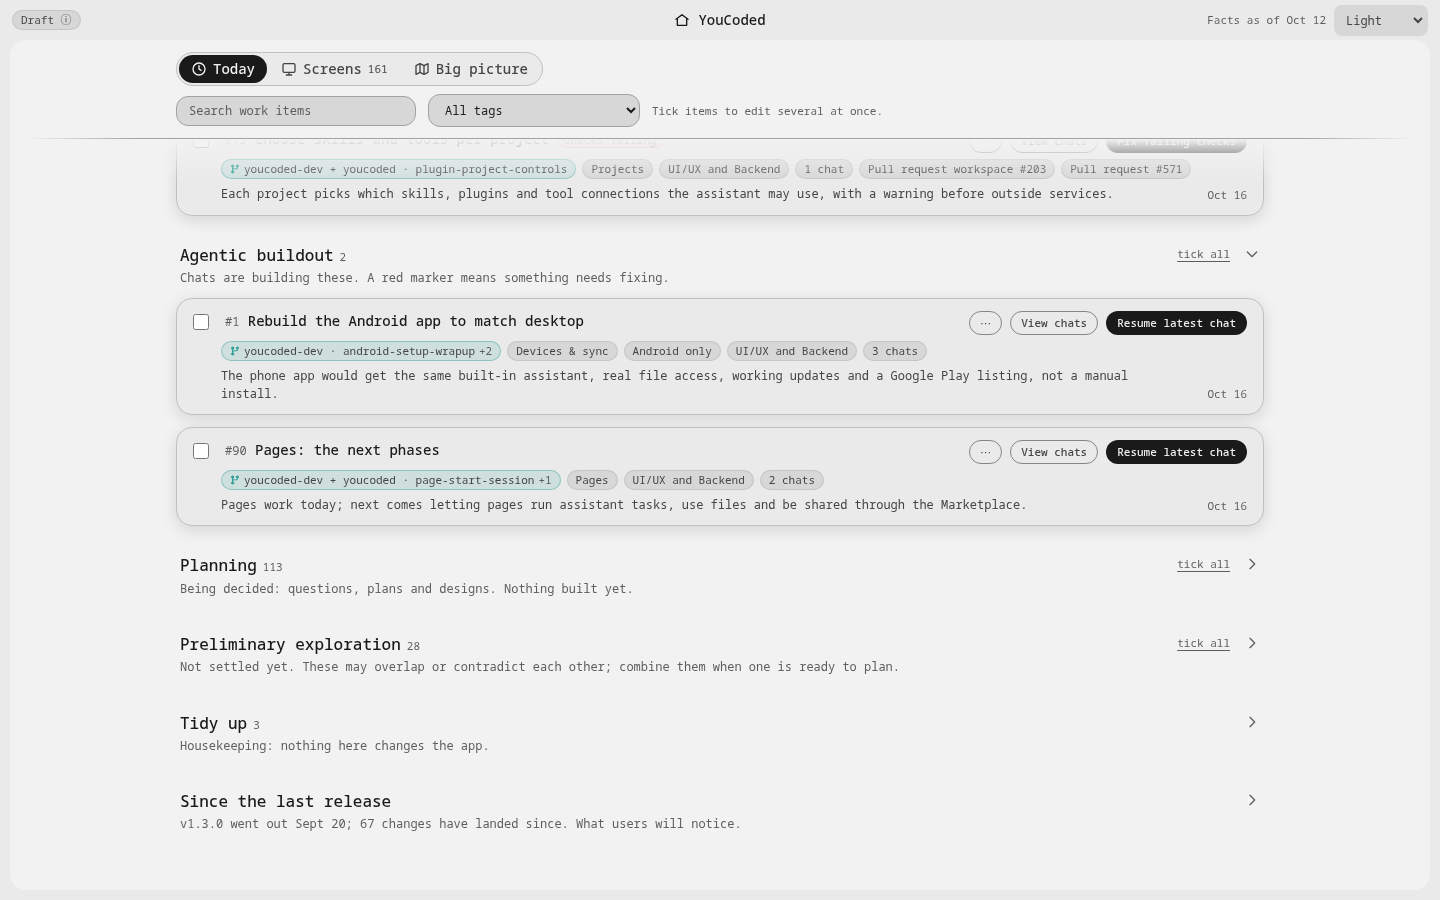
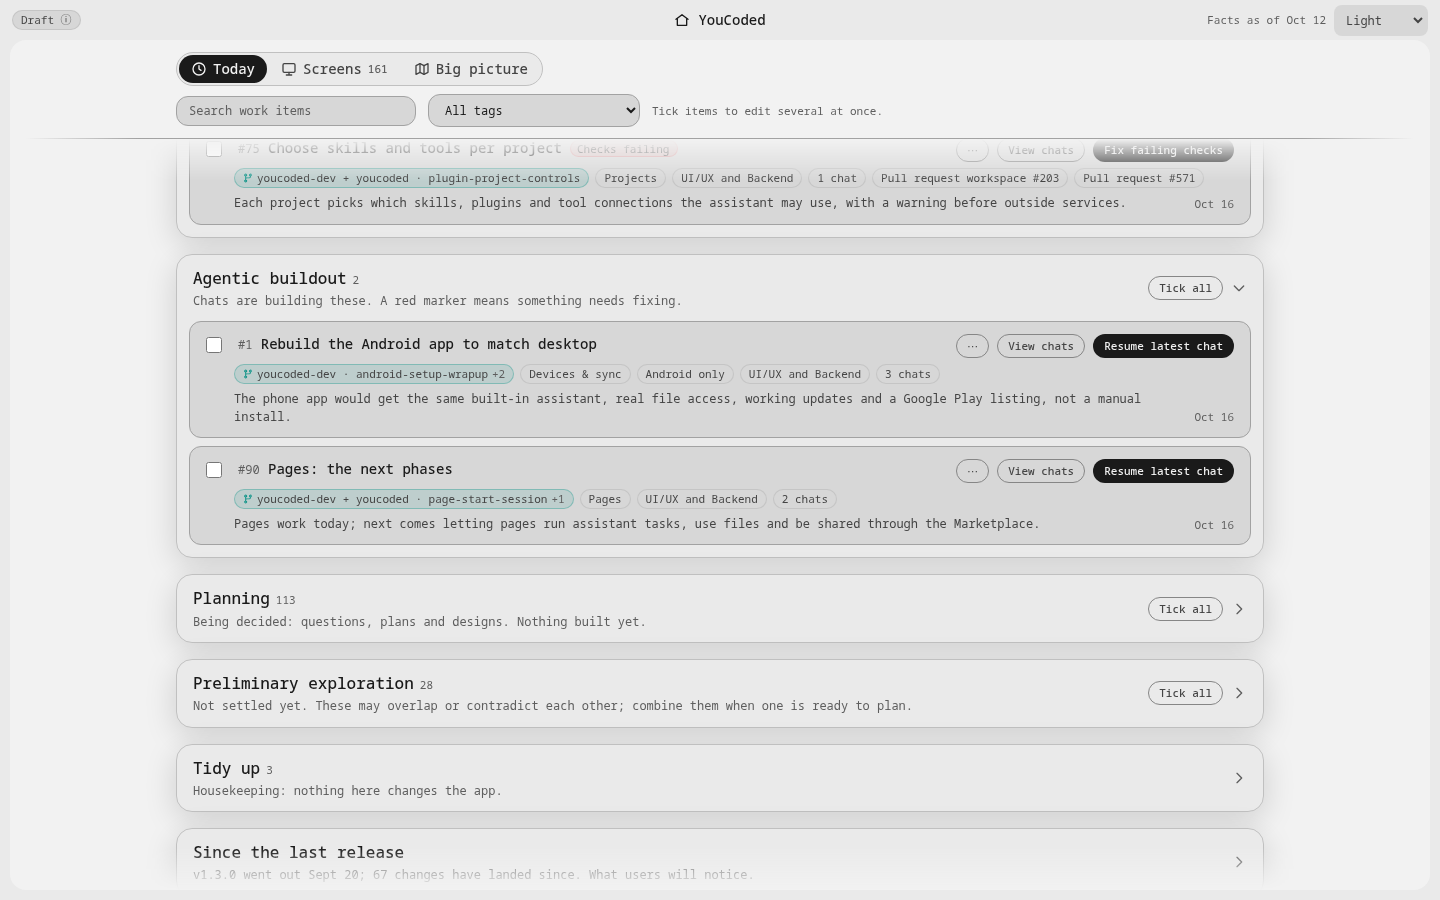
management page: sections are cards that open into bigger cards; no clickable bare text
Destin: 'i hate clickable elements that are bare text. the sections should be
cards, that expand into bigger cards that contain the sub-cards'. Each section
is a raised box whose header folds it (the whole box lights on hover); open, it
holds the item cards in the nested look. 'Tick all' is an outlined button. Item
names are plain text; the whole item card opens its details. The popup's main
button now matches the card's, and its 'branch when work starts' line shows
only for items with no branch yet.

Changed region(s): [[0.125, 0.1556, 0.875, 0.9644]]

diff --git a/docs/active/design/2026-10-12-management-surface/mockup.html b/docs/active/design/2026-10-12-management-surface/mockup.html
@@ -480,30 +480,33 @@ button.dimg{cursor:zoom-in;font:inherit} button.dimg.full{cursor:zoom-out} butto
 @media (hover:hover){.mitem:hover{background:var(--inset)}} .mitem:focus-visible{outline:2px solid var(--accent)}
 @media (max-width:760px){.ctop{flex-direction:column}.crow .acts{width:100%;justify-content:flex-end}}
 
-/* collapsible groups: the guide's Large heading row (heading + description left, tools right) as the fold's own header */
-.lgroup{margin:0 0 24px} .lgroup > summary{list-style:none} .lgroup > summary::-webkit-details-marker{display:none}
-.lghead{display:flex;align-items:flex-start;gap:12px;padding:4px 4px 8px;cursor:pointer;border-radius:var(--radius-lg)}
+/* sections are cards (Destin, 2026-10-16: "the sections should be cards, that expand into bigger cards that contain
+   the sub-cards"): a raised first-level box whose header row folds it (guide: a folded box opens inside itself, and
+   pointing at it lights the whole box); the item cards inside take the nested look (guide: Card levels) */
+.lgroup{margin:0 0 16px;background:var(--panel);border:1px solid var(--edge);border-radius:var(--radius-xl);box-shadow:var(--layer-shadow);transition:background-color 120ms steps(4)}
+.lgroup > summary{list-style:none} .lgroup > summary::-webkit-details-marker{display:none}
+.lghead{display:flex;align-items:center;gap:12px;padding:12px 16px;cursor:pointer;border-radius:var(--radius-xl)}
+@media (hover:hover){.lgroup:not([open]):has(> summary:hover){background:var(--inset)} .lgroup[open] > .lghead:hover{background:color-mix(in srgb,var(--inset) 60%,transparent)}}
 .lghead .gtext{flex:1;min-width:0;display:flex;flex-direction:column}
 .lghead .gh{font-size:16px;font-weight:500;color:var(--fg)} .lghead .gh .cnt{margin-left:6px}
 .lghead .gdesc{font-size:12px;color:var(--fg-muted);margin-top:2px}
-.lgtools{display:flex;align-items:center;gap:8px;flex:none;padding-top:2px}
+.lgtools{display:flex;align-items:center;gap:8px;flex:none}
 .lgroup[open] > .lghead .chev{transform:rotate(90deg)}
-@media (hover:hover){.lghead:hover .gh{text-decoration:underline;text-underline-offset:3px;text-decoration-color:var(--edge-strong)}}
 .lghead:focus-visible{outline:2px solid var(--accent);outline-offset:2px}
-.lgbody{padding-top:4px}
+.lgbody{padding:0 12px 12px}
+.lgroup .crow{background:var(--inset);border:1px solid var(--edge-card);border-radius:var(--radius-lg);box-shadow:none;margin-bottom:8px}
+.lgroup .crow:last-child{margin-bottom:0}
+/* an item card opens its details when clicked anywhere that is not one of its own controls */
+.lrow{cursor:pointer;transition:background-color 120ms steps(4)}
+@media (hover:hover){.lgroup .lrow:hover{background:color-mix(in srgb,var(--inset) 88%,var(--fg))}}
 /* live Today (live_today.py): the approved rows plus a tick box, and the bulk bar */
 .ltools{display:flex;align-items:center;gap:8px;flex-wrap:wrap}
 .field{font:inherit;font-size:12px;line-height:16px;padding:6px 12px;border-radius:var(--radius-lg);border:1px solid var(--edge-card);background:var(--inset);color:var(--fg);width:240px}
 select.field{width:auto;cursor:pointer} .field:focus-visible{outline:2px solid var(--accent);outline-offset:1px}
 .ltick{margin:3px 4px 0 0;width:16px;height:16px;accent-color:var(--accent);cursor:pointer;flex:none}
 .lrow.sel{border-color:var(--fg)}
-.ltitle{font:inherit;font-size:14px;font-weight:500;color:var(--fg);background:none;border:0;padding:0;text-align:left;cursor:pointer}
-.ltitle.t-lg{font-size:18px;font-weight:600}
-@media (hover:hover){.ltitle:hover{text-decoration:underline;text-underline-offset:3px}}
 .lid{color:var(--fg-muted);font-weight:400;font-size:12px}
 .spill.stage{background:var(--panel);border-color:var(--edge-strong);color:var(--fg)}
-.selall{font-size:11px;font-weight:400;color:var(--fg-muted);background:none;border:0;cursor:pointer;padding:0 6px;text-decoration:underline;text-underline-offset:3px}
-.foldbody > .selall{display:inline-block;margin:0 0 8px}
 .lbulk{position:fixed;left:50%;bottom:20px;transform:translateX(-50%);display:flex;align-items:center;gap:8px;padding:8px 8px 8px 16px;z-index:25;border-radius:var(--radius-xl)}
 .lbulk[hidden]{display:none} .lbulk .n{font-size:12px;font-weight:500;margin-right:8px;white-space:nowrap}
 .menu.lup{top:auto;bottom:calc(100% + 6px);left:0;right:auto;min-width:260px}
@@ -964,8 +967,10 @@ function openCard(id,back){const c=C[id];if(!c)return;if(!back&&CUR&&CUR!==id&&!
     ${c.summary?`<p class="t-sm dim">${e_(c.summary)}</p>`:''}${c.paused?`<p class="t-xs"><b>Paused because:</b> ${e_(c.paused)}</p>`:''}${c.finish?`<p class="t-xs"><b>Finish line:</b> ${e_(c.finish)}</p>`:''}</div>
     <div class="${right?'dcols':'dcol'}"><div class="dcol">${(c.live?.chats||[]).length?`<section class="dgroup"><div class="eyebrow" data-tip="Every chat that worked on this, newest first.">Chats</div><div class="card dcard">${c.live.chats.map(x=>`<div class="row slim"><span class="body"><span class="t-xs rt">${e_(x.date)} · ${e_(x.name)}</span><span class="hint wrap">${e_(x.result)}</span></span>${x.live?'<span class="spill info" data-tip="Worked on in the last 24 hours."><span class="dot" aria-hidden="true"></span>Working</span>':''}</div>`).join('')}</div></section>`:''}
       <details class="fold"><summary class="foldrow" data-tip="The original notes this item came from."><span class="t-xs">Original notes</span><span class="chev" aria-hidden="true"><svg viewBox="0 0 24 24"><path d="M9 5l7 7-7 7"/></svg></span></summary><div class="foldbody"><p class="dtext">${e_(c.body.replace(/\*\*/g,''))}</p></div></details></div>${right?`<div class="dcol">${right}</div>`:''}</div>
-    <p class="t-2xs muted">Branch name when work starts: ${e_(c.branch)} · ${e_(c.file)}</p>`,
-    `<button class="btn" data-ltickone="${c.id}" data-tip="Ticks this item, to combine or move it with others.">${SEL.has(c.id)?'Untick':'Tick'} this item</button><button class="btn primary" data-does data-tip="Starts a chat that already knows this item.">Start a chat on this</button>`);
+    ${(c.live?.branches||[]).length?'':`<p class="t-2xs muted">Branch name when work starts: ${e_(c.branch)} · ${e_(c.file)}</p>`}`,
+    // WHY the card's own next step (2026-10-16): the popup's filled button disagreed with the card's
+    (()=>{const pb=document.querySelector(`.lrow[data-cid="${c.id}"] .acts .btn.primary`);const lab=pb?pb.textContent:'Start a chat on this',tip=pb?pb.dataset.tip:'Starts a chat that already knows this item.';
+      return `<button class="btn" data-ltickone="${c.id}" data-tip="Ticks this item, to combine or move it with others.">${SEL.has(c.id)?'Untick':'Tick'} this item</button><button class="btn primary" data-does data-tip="${e_(tip)}">${e_(lab)}</button>`})());
   $('#pback').hidden=!HIST.length}
 $('#pback').onclick=()=>{const p=HIST.pop();if(p)openCard(p,true)};
 function combineDlg(){const items=[...SEL].map(i=>C[i]);const order=['explore','planning','build','polish','merged'];
@@ -985,6 +990,8 @@ document.addEventListener('click',async e=>{const t=e.target;
   const tk=t.closest('.ltick');if(tk){const id=+tk.closest('.lrow').dataset.cid;tk.checked?SEL.add(id):SEL.delete(id);bar();return}
   const ta=t.closest('[data-tickall]');if(ta){e.preventDefault();$$(`.lsec[data-stage="${ta.dataset.tickall}"] .lrow:not([hidden])`).forEach(r=>SEL.add(+r.dataset.cid));bar();return}
   const co=t.closest('[data-card-open]');if(co){e.preventDefault();openCard(+co.dataset.cardOpen);return}
+  // WHY the whole card (2026-10-16, no bare clickable text): a click on the card, not on its own controls, opens it
+  const card=t.closest('.lrow');if(card&&!t.closest('button,input,a,select,label,summary,.menu,.cbody')){openCard(+card.dataset.cid);return}
   const one=t.closest('[data-ltickone]');if(one){const id=+one.dataset.ltickone;SEL.has(id)?SEL.delete(id):SEL.add(id);bar();openCard(id,true);return}
   if(t.closest('#lbstage')){$('#lstagemenu').hidden=!$('#lstagemenu').hidden;return}
   const st=t.closest('[data-lstage]');if(st){$('#lstagemenu').hidden=true;try{const j=await send('/api/stage',{ids:[...SEL],stage:st.dataset.lstage});done(`Moved ${j.result.length} to ${W[st.dataset.lstage]}. ${j.saved}`)}catch(err){toast(err.message)}return}

diff --git a/docs/active/design/2026-10-12-management-surface/live_today.py b/docs/active/design/2026-10-12-management-surface/live_today.py
@@ -69,7 +69,8 @@ def group(T, key, title, hint, tip, ctip, count, body, open_=False, tick=True):
     """WHY one group look for every section (Destin, 2026-10-16: "make the extra sections collapsible"; guide
     "Full screens": big groups use the Large heading — heading left, a one-line description under it, its
     tools right): the heading row itself folds the group, its tools sit at the right, cards follow."""
-    tools = (f'<button class="selall" data-tickall="{key}" data-tip="Ticks every item shown in this group.">tick all</button>' if tick and count else '')
+    # WHY a real button (Destin, 2026-10-16: "i hate clickable elements that are bare text")
+    tools = (f'<button class="btn sm" data-tickall="{key}" data-tip="Ticks every item shown in this group.">Tick all</button>' if tick and count else '')
     return (f'<details class="lsec lgroup" data-stage="{key}"{" open" if open_ else ""}><summary class="lghead" data-tip="{T(tip)}">'
             f'<span class="gtext"><span class="gh">{E(title)}<span class="cnt" data-tip="{T(ctip)}">{count}</span></span><span class="gdesc">{E(hint)}</span></span>'
             f'<span class="lgtools">{tools}<span class="chev" aria-hidden="true">›</span></span></summary><div class="lgbody">{body}</div></details>')
@@ -95,7 +96,7 @@ def render(cards, leftovers, dev_only, T, sechead, fold, pic):
     if hero:
         main, does = tt.next_step(hero)
         out.append(f'''<section class="card hero"><div class="eyebrow"><span data-tip="{T('today.start')}">Start here · suggested next</span></div>
-<div class="ctl"><button class="ltitle t-lg" data-card-open="{hero['id']}" data-tip="Opens everything on this item."><span class="lid">#{hero['id']}</span> {E(hero['title'])}</button>{tt.stage_pill(hero)}{tt.markers(hero)}</div>
+<div class="ctl"><span class="t-lg"><span class="lid">#{hero['id']}</span> {E(hero['title'])}</span>{tt.stage_pill(hero)}{tt.markers(hero)}</div>
 <p class="t-sm dim">{E(hero['next'])}</p><div class="cchips">{tt.chips(hero)}</div>
 <p class="t-2xs muted">Suggested because it is the furthest along, and its next step is waiting.</p>
 <div class="acts heroacts">{tt.menu()}<button class="btn sm" data-card-open="{hero['id']}" data-tip="Opens everything on this item.">Open item</button><button class="btn sm primary" data-does data-tip="{E(does)}">{E(main)}</button></div></section>''')
@@ -127,30 +128,33 @@ def render(cards, leftovers, dev_only, T, sechead, fold, pic):
 
 
 CSS = '''
-/* collapsible groups: the guide's Large heading row (heading + description left, tools right) as the fold's own header */
-.lgroup{margin:0 0 24px} .lgroup > summary{list-style:none} .lgroup > summary::-webkit-details-marker{display:none}
-.lghead{display:flex;align-items:flex-start;gap:12px;padding:4px 4px 8px;cursor:pointer;border-radius:var(--radius-lg)}
+/* sections are cards (Destin, 2026-10-16: "the sections should be cards, that expand into bigger cards that contain
+   the sub-cards"): a raised first-level box whose header row folds it (guide: a folded box opens inside itself, and
+   pointing at it lights the whole box); the item cards inside take the nested look (guide: Card levels) */
+.lgroup{margin:0 0 16px;background:var(--panel);border:1px solid var(--edge);border-radius:var(--radius-xl);box-shadow:var(--layer-shadow);transition:background-color 120ms steps(4)}
+.lgroup > summary{list-style:none} .lgroup > summary::-webkit-details-marker{display:none}
+.lghead{display:flex;align-items:center;gap:12px;padding:12px 16px;cursor:pointer;border-radius:var(--radius-xl)}
+@media (hover:hover){.lgroup:not([open]):has(> summary:hover){background:var(--inset)} .lgroup[open] > .lghead:hover{background:color-mix(in srgb,var(--inset) 60%,transparent)}}
 .lghead .gtext{flex:1;min-width:0;display:flex;flex-direction:column}
 .lghead .gh{font-size:16px;font-weight:500;color:var(--fg)} .lghead .gh .cnt{margin-left:6px}
 .lghead .gdesc{font-size:12px;color:var(--fg-muted);margin-top:2px}
-.lgtools{display:flex;align-items:center;gap:8px;flex:none;padding-top:2px}
+.lgtools{display:flex;align-items:center;gap:8px;flex:none}
 .lgroup[open] > .lghead .chev{transform:rotate(90deg)}
-@media (hover:hover){.lghead:hover .gh{text-decoration:underline;text-underline-offset:3px;text-decoration-color:var(--edge-strong)}}
 .lghead:focus-visible{outline:2px solid var(--accent);outline-offset:2px}
-.lgbody{padding-top:4px}
+.lgbody{padding:0 12px 12px}
+.lgroup .crow{background:var(--inset);border:1px solid var(--edge-card);border-radius:var(--radius-lg);box-shadow:none;margin-bottom:8px}
+.lgroup .crow:last-child{margin-bottom:0}
+/* an item card opens its details when clicked anywhere that is not one of its own controls */
+.lrow{cursor:pointer;transition:background-color 120ms steps(4)}
+@media (hover:hover){.lgroup .lrow:hover{background:color-mix(in srgb,var(--inset) 88%,var(--fg))}}
 /* live Today (live_today.py): the approved rows plus a tick box, and the bulk bar */
 .ltools{display:flex;align-items:center;gap:8px;flex-wrap:wrap}
 .field{font:inherit;font-size:12px;line-height:16px;padding:6px 12px;border-radius:var(--radius-lg);border:1px solid var(--edge-card);background:var(--inset);color:var(--fg);width:240px}
 select.field{width:auto;cursor:pointer} .field:focus-visible{outline:2px solid var(--accent);outline-offset:1px}
 .ltick{margin:3px 4px 0 0;width:16px;height:16px;accent-color:var(--accent);cursor:pointer;flex:none}
 .lrow.sel{border-color:var(--fg)}
-.ltitle{font:inherit;font-size:14px;font-weight:500;color:var(--fg);background:none;border:0;padding:0;text-align:left;cursor:pointer}
-.ltitle.t-lg{font-size:18px;font-weight:600}
-@media (hover:hover){.ltitle:hover{text-decoration:underline;text-underline-offset:3px}}
 .lid{color:var(--fg-muted);font-weight:400;font-size:12px}
 .spill.stage{background:var(--panel);border-color:var(--edge-strong);color:var(--fg)}
-.selall{font-size:11px;font-weight:400;color:var(--fg-muted);background:none;border:0;cursor:pointer;padding:0 6px;text-decoration:underline;text-underline-offset:3px}
-.foldbody > .selall{display:inline-block;margin:0 0 8px}
 .lbulk{position:fixed;left:50%;bottom:20px;transform:translateX(-50%);display:flex;align-items:center;gap:8px;padding:8px 8px 8px 16px;z-index:25;border-radius:var(--radius-xl)}
 .lbulk[hidden]{display:none} .lbulk .n{font-size:12px;font-weight:500;margin-right:8px;white-space:nowrap}
 .menu.lup{top:auto;bottom:calc(100% + 6px);left:0;right:auto;min-width:260px}
@@ -194,8 +198,10 @@ function openCard(id,back){const c=C[id];if(!c)return;if(!back&&CUR&&CUR!==id&&!
     ${c.summary?`<p class="t-sm dim">${e_(c.summary)}</p>`:''}${c.paused?`<p class="t-xs"><b>Paused because:</b> ${e_(c.paused)}</p>`:''}${c.finish?`<p class="t-xs"><b>Finish line:</b> ${e_(c.finish)}</p>`:''}</div>
     <div class="${right?'dcols':'dcol'}"><div class="dcol">${(c.live?.chats||[]).length?`<section class="dgroup"><div class="eyebrow" data-tip="Every chat that worked on this, newest first.">Chats</div><div class="card dcard">${c.live.chats.map(x=>`<div class="row slim"><span class="body"><span class="t-xs rt">${e_(x.date)} · ${e_(x.name)}</span><span class="hint wrap">${e_(x.result)}</span></span>${x.live?'<span class="spill info" data-tip="Worked on in the last 24 hours."><span class="dot" aria-hidden="true"></span>Working</span>':''}</div>`).join('')}</div></section>`:''}
       <details class="fold"><summary class="foldrow" data-tip="The original notes this item came from."><span class="t-xs">Original notes</span><span class="chev" aria-hidden="true">›</span></summary><div class="foldbody"><p class="dtext">${e_(c.body.replace(/\*\*/g,''))}</p></div></details></div>${right?`<div class="dcol">${right}</div>`:''}</div>
-    <p class="t-2xs muted">Branch name when work starts: ${e_(c.branch)} · ${e_(c.file)}</p>`,
-    `<button class="btn" data-ltickone="${c.id}" data-tip="Ticks this item, to combine or move it with others.">${SEL.has(c.id)?'Untick':'Tick'} this item</button><button class="btn primary" data-does data-tip="Starts a chat that already knows this item.">Start a chat on this</button>`);
+    ${(c.live?.branches||[]).length?'':`<p class="t-2xs muted">Branch name when work starts: ${e_(c.branch)} · ${e_(c.file)}</p>`}`,
+    // WHY the card's own next step (2026-10-16): the popup's filled button disagreed with the card's
+    (()=>{const pb=document.querySelector(`.lrow[data-cid="${c.id}"] .acts .btn.primary`);const lab=pb?pb.textContent:'Start a chat on this',tip=pb?pb.dataset.tip:'Starts a chat that already knows this item.';
+      return `<button class="btn" data-ltickone="${c.id}" data-tip="Ticks this item, to combine or move it with others.">${SEL.has(c.id)?'Untick':'Tick'} this item</button><button class="btn primary" data-does data-tip="${e_(tip)}">${e_(lab)}</button>`})());
   $('#pback').hidden=!HIST.length}
 $('#pback').onclick=()=>{const p=HIST.pop();if(p)openCard(p,true)};
 function combineDlg(){const items=[...SEL].map(i=>C[i]);const order=['explore','planning','build','polish','merged'];
@@ -215,6 +221,8 @@ document.addEventListener('click',async e=>{const t=e.target;
   const tk=t.closest('.ltick');if(tk){const id=+tk.closest('.lrow').dataset.cid;tk.checked?SEL.add(id):SEL.delete(id);bar();return}
   const ta=t.closest('[data-tickall]');if(ta){e.preventDefault();$$(`.lsec[data-stage="${ta.dataset.tickall}"] .lrow:not([hidden])`).forEach(r=>SEL.add(+r.dataset.cid));bar();return}
   const co=t.closest('[data-card-open]');if(co){e.preventDefault();openCard(+co.dataset.cardOpen);return}
+  // WHY the whole card (2026-10-16, no bare clickable text): a click on the card, not on its own controls, opens it
+  const card=t.closest('.lrow');if(card&&!t.closest('button,input,a,select,label,summary,.menu,.cbody')){openCard(+card.dataset.cid);return}
   const one=t.closest('[data-ltickone]');if(one){const id=+one.dataset.ltickone;SEL.has(id)?SEL.delete(id):SEL.add(id);bar();openCard(id,true);return}
   if(t.closest('#lbstage')){$('#lstagemenu').hidden=!$('#lstagemenu').hidden;return}
   const st=t.closest('[data-lstage]');if(st){$('#lstagemenu').hidden=true;try{const j=await send('/api/stage',{ids:[...SEL],stage:st.dataset.lstage});done(`Moved ${j.result.length} to ${W[st.dataset.lstage]}. ${j.saved}`)}catch(err){toast(err.message)}return}

diff --git a/docs/active/design/2026-10-12-management-surface/today_tab.py b/docs/active/design/2026-10-12-management-surface/today_tab.py
@@ -269,7 +269,8 @@ def row(c, pic, show_stage=False, live=False):
     main, does = next_step(c)
     nxt = ('Paused because: ' + c['paused']) if c.get('paused') else c['next']
     tick = f'<input type="checkbox" class="ltick" aria-label="Tick #{E(c["id"])}" data-tip="Tick to edit several items at once.">' if live else ''
-    name = (f'<button class="ltitle" data-card-open="{E(c["id"])}" data-tip="Opens everything on this item."><span class="lid">#{E(c["id"])}</span> {E(c["title"])}</button>'
+    # WHY plain text (2026-10-16: "i hate clickable elements that are bare text"): the whole card opens it instead
+    name = (f'<span class="t-sm fw"><span class="lid">#{E(c["id"])}</span> {E(c["title"])}</span>'
             if live else f'<span class="t-sm fw">{E(c["title"])}</span>')
     attrs = (f' data-cid="{E(c["id"])}" data-stage="{E(c["stage"])}" data-tags="{E(" ".join(c.get("tags", [])))}" data-search="{E(c.get("search", ""))}"' if live else '')
     # WHY this order (UI-consistency guide, "Cards", Destin 2026-10-16: "make the card hierarchy match the ui
